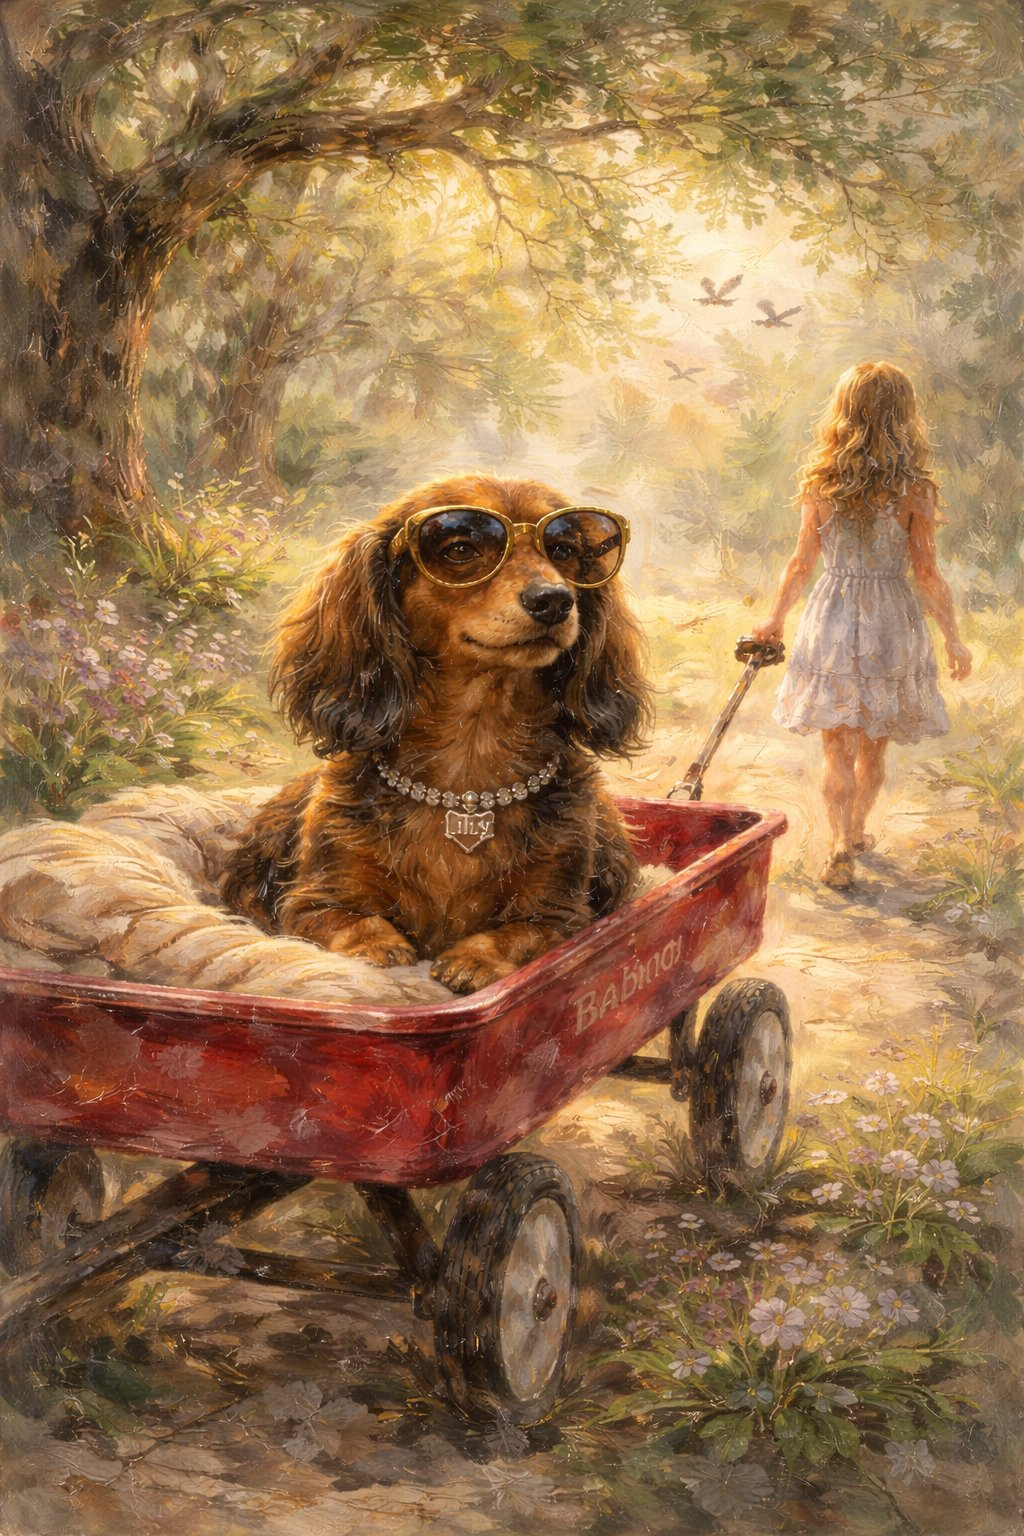
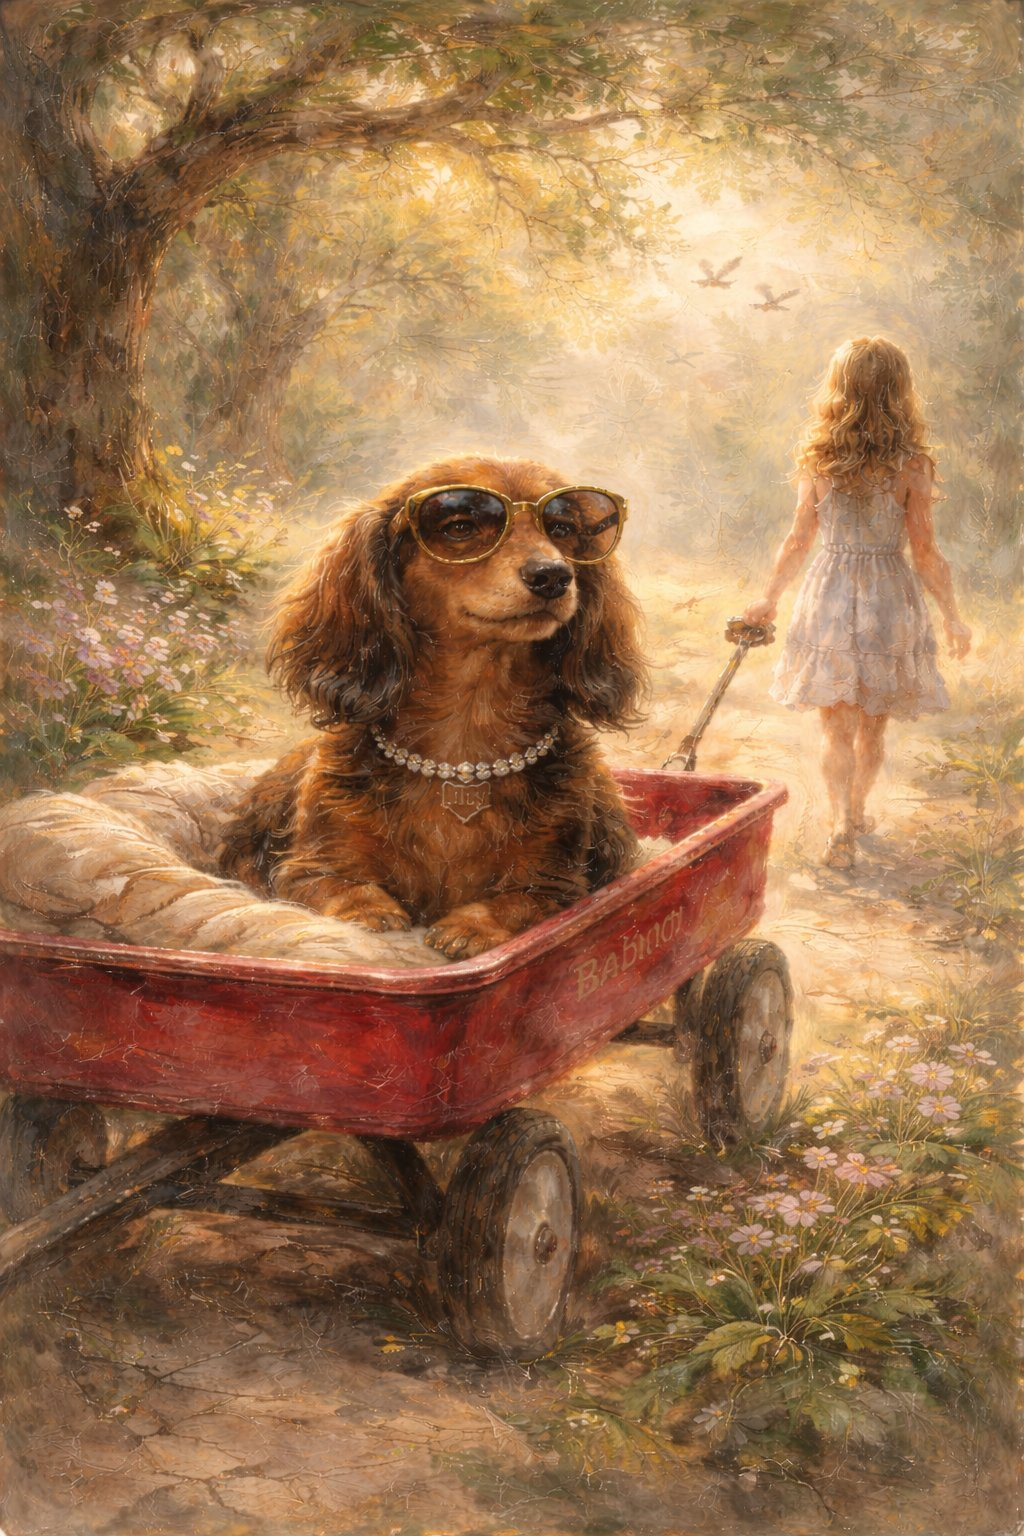
fix: replace Lily image, make portrait cards 20% smaller

diff --git a/app/page.tsx b/app/page.tsx
@@ -256,7 +256,7 @@ export default function Home() {
 
       {/* MEMORY PORTRAIT FEATURE */}
       <section id="the-experience" style={{padding:'120px 60px',background:'var(--soft)'}}>
-        <div style={{maxWidth:1100,margin:'0 auto',display:'grid',gridTemplateColumns:'1fr 1fr',gap:80,alignItems:'center'}}>
+        <div style={{maxWidth:1100,margin:'0 auto',display:'grid',gridTemplateColumns:'1.2fr 1fr',gap:60,alignItems:'center'}}>
           <div>
             <div style={{fontSize:10,letterSpacing:'.3em',textTransform:'uppercase',color:'var(--gold)',marginBottom:16}}>Signature Portrait &mdash; Starting at $49</div>
             <h2 className="serif" style={{fontSize:'clamp(36px,4vw,60px)',fontWeight:400,marginBottom:24,lineHeight:1.1}}>Their Story Is<br/><em>Worth Remembering.</em></h2>
